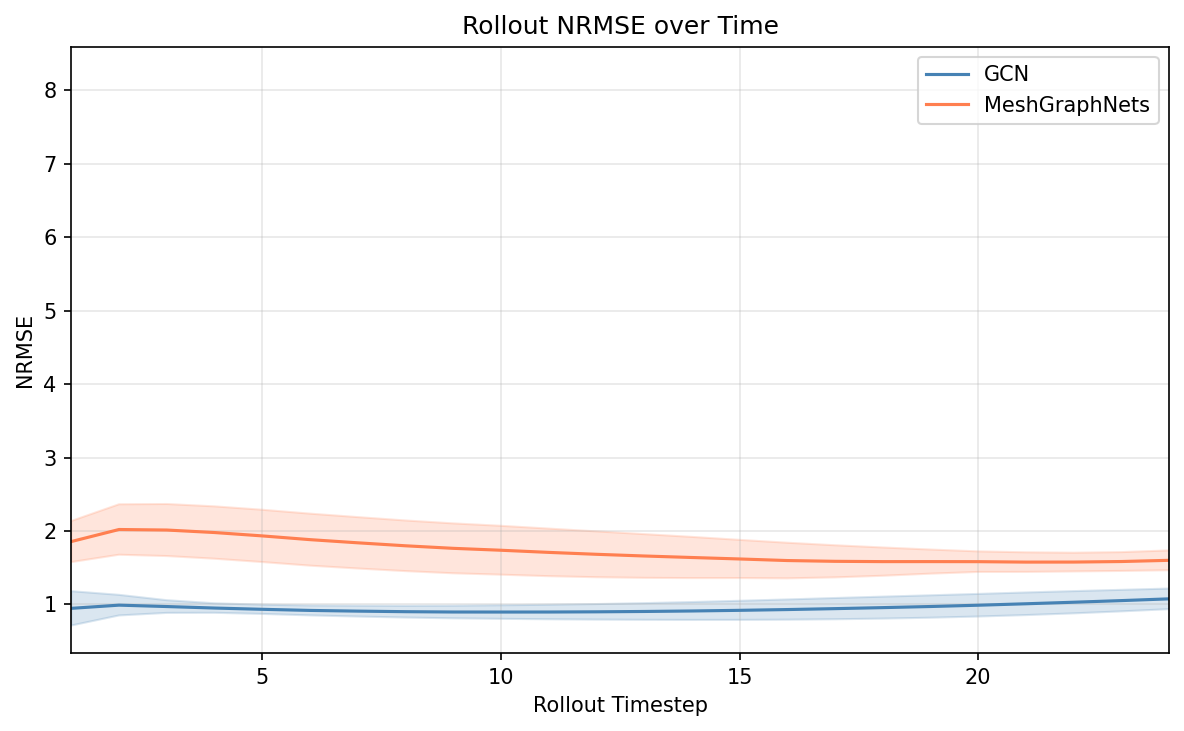
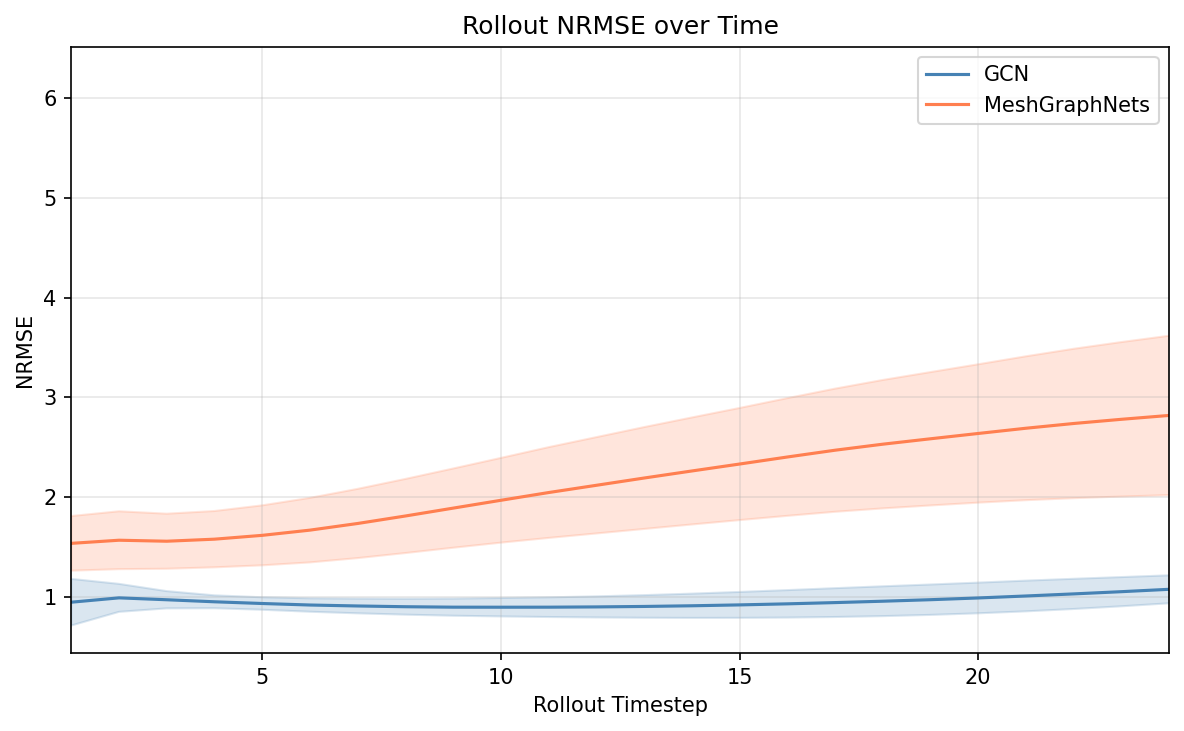
update MGN checkpoint and results with improved model

diff --git a/utils/dataset.py b/utils/dataset.py
@@ -198,14 +198,14 @@ class CylinderFlowDataset(Dataset):
  
 # Split samples to train/val/test
 def get_splits(h5_path: str,
-               train_frac: float = 0.7,
-               val_frac:   float = 0.15,
-               test_frac:  float = 0.15,
+               train_frac: float = 0.1,
+               val_frac:   float = 0.05,
+               test_frac:  float = 0.05,
                seed: int = 42, stats=None):
     """
     Returns (train_dataset, val_dataset, test_dataset).
  
-    The 70/15/15 split is over simulation *samples* (not timesteps),
+    The split is over simulation *samples* (not timesteps),
     so there is no data leakage between splits.
  
     Normalization stats are computed on the training split only and

diff --git a/models/gcn.py b/models/gcn.py
@@ -18,7 +18,7 @@ from torch_geometric.nn import GCNConv
 
 
 class GCN(nn.Module):
-    def __init__(self, in_dim=7, hidden_dim=128, out_dim=3, num_layers=6):
+    def __init__(self, in_dim=7, hidden_dim=64, out_dim=3, num_layers=3):
         """
         Args:
             in_dim     : number of input node features (7)

diff --git a/models/mgn.py b/models/mgn.py
@@ -91,7 +91,7 @@ class MGNBlock(nn.Module):
 
 class MeshGraphNets(nn.Module):
     def __init__(self, in_node_dim=7, in_edge_dim=3,
-                 hidden_dim=128, out_dim=3, num_layers=6):
+                 hidden_dim=128, out_dim=3, num_layers=3):
         """
         Args:
             in_node_dim : input node feature size (7)